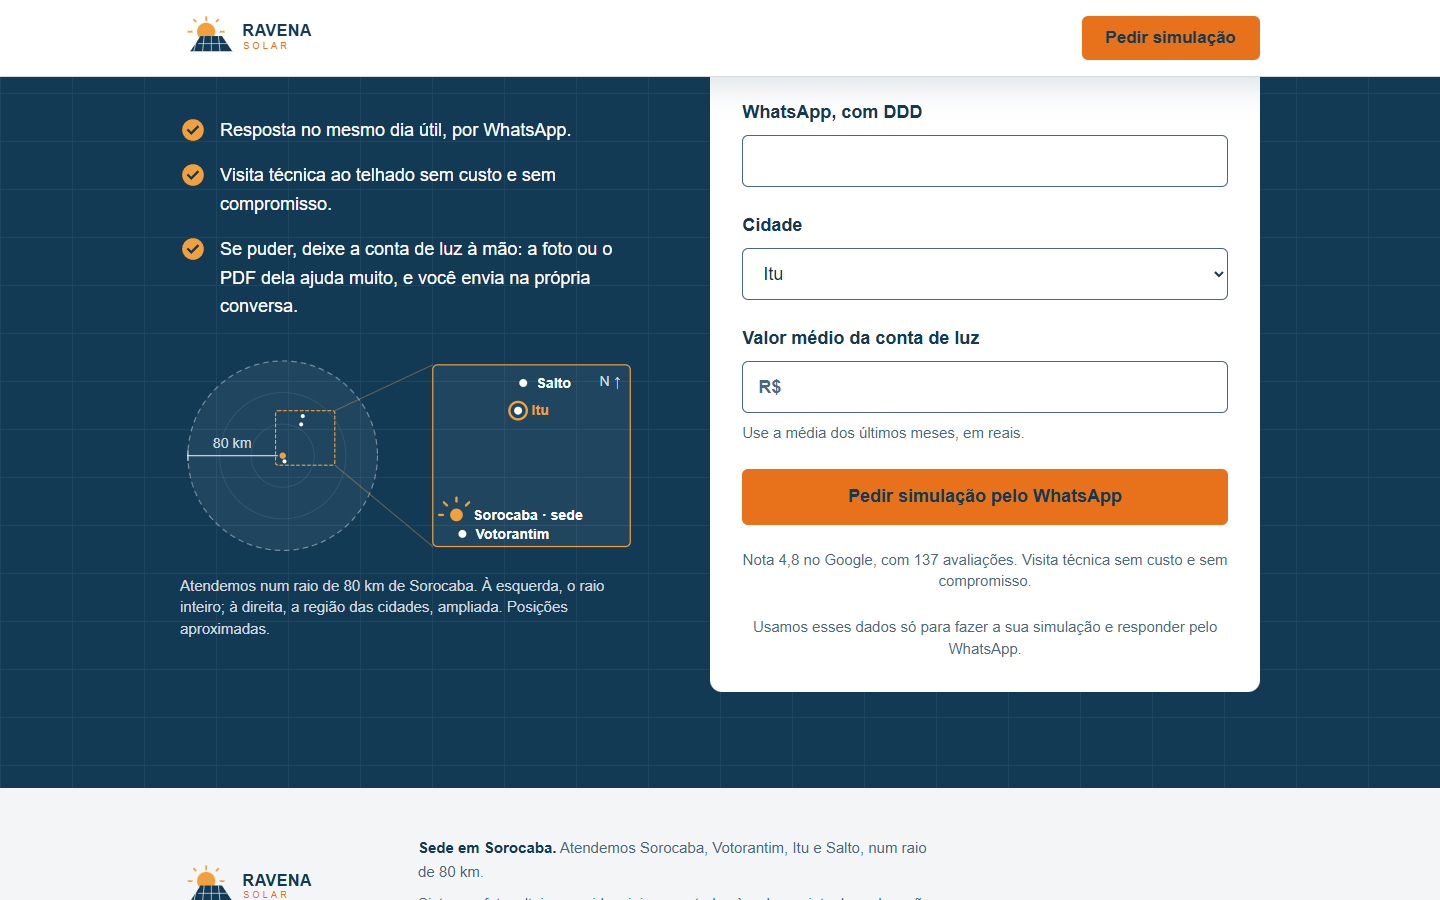
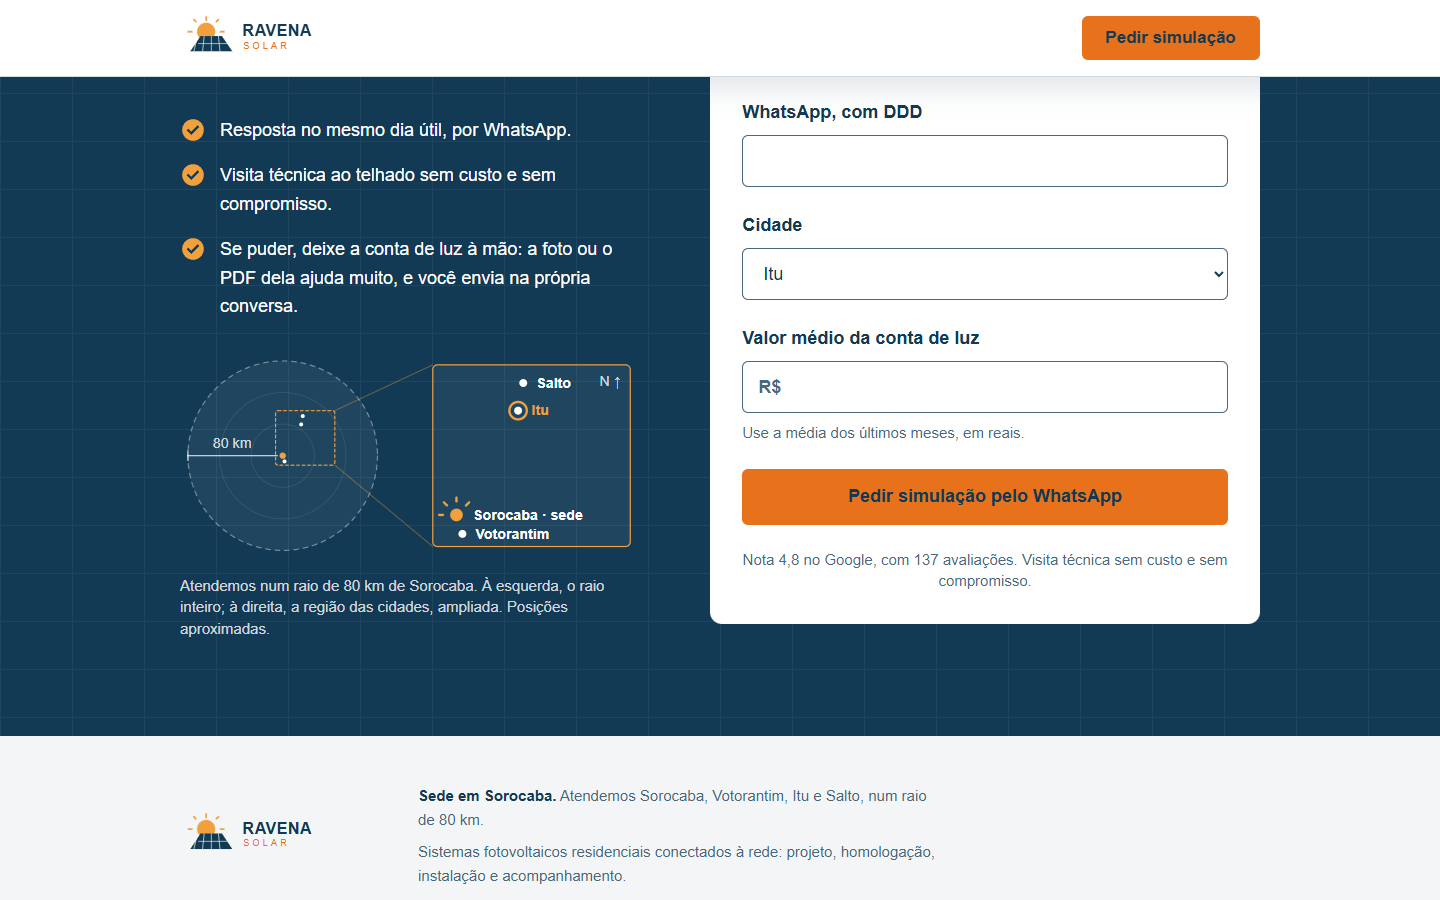
Mapa do celular depois do botão; frase sobre dados fica pendente
O mapa ocupava ~300px entre os campos Cidade e conta. A frase sobre o
uso dos dados é promessa que o cliente não fez no brief: sai até ele
confirmar e entra na lista de pendências.

Changed region(s): [[0.0, 0.8089, 1.0, 1.0], [0.4688, 0.6844, 0.875, 0.7778]]

diff --git a/index.html b/index.html
@@ -380,19 +380,6 @@
             <p class="erro" id="erro-cidade" hidden></p>
           </div>
 
-          <!-- No celular, o quadro ampliado fica junto do campo, para o destaque da cidade aparecer onde a pessoa escolhe. -->
-          <figure class="diagrama mapa-compacto so-celular">
-            <svg class="mapa" viewBox="330 25 270 250" role="img" aria-labelledby="mapa-compacto-legenda" xmlns="http://www.w3.org/2000/svg">
-              <rect class="m-moldura" x="340" y="35" width="250" height="230" rx="6"/>
-              <text class="m-norte" x="578" y="62" text-anchor="end">N ↑</text>
-              <g class="m-local" data-cidade="Salto"><circle class="m-anel" cx="454.5" cy="58" r="11"/><circle class="m-ponto" cx="454.5" cy="58" r="5"/><text x="471" y="64">Salto</text></g>
-              <g class="m-local" data-cidade="Itu"><circle class="m-anel" cx="448" cy="93" r="11"/><circle class="m-ponto" cx="448" cy="93" r="5"/><text x="465" y="99">Itu</text></g>
-              <g class="m-local" data-cidade="Votorantim"><circle class="m-anel" cx="377.5" cy="249" r="11"/><circle class="m-ponto" cx="377.5" cy="249" r="5"/><text x="394" y="255">Votorantim</text></g>
-              <g class="m-local m-sede" data-cidade="Sorocaba"><circle class="m-anel" cx="370" cy="225" r="15"/><path class="m-raios" d="M370 208 V203 M358 213 L354 209 M382 213 L386 209 M353 225 H348"/><circle class="m-sol" cx="370" cy="225" r="8"/><text x="391" y="231">Sorocaba · sede</text></g>
-            </svg>
-            <figcaption id="mapa-compacto-legenda">Atendemos num raio de 80 km de Sorocaba. Posições aproximadas.</figcaption>
-          </figure>
-
           <div class="campo" id="campo-outra-cidade" hidden>
             <label for="outra-cidade">Qual cidade?</label>
             <input id="outra-cidade" name="outra-cidade" type="text" aria-describedby="erro-outra-cidade">
@@ -425,7 +412,19 @@
           <noscript><p class="ajuda">Para pedir a simulação, ative o JavaScript do navegador.</p></noscript>
 
           <p class="garantia-envio">Nota 4,8 no Google, com 137 avaliações. Visita técnica sem custo e sem compromisso.</p>
-          <p class="garantia-envio">Usamos esses dados só para fazer a sua simulação e responder pelo WhatsApp.</p>
+
+          <!-- No celular, o quadro ampliado fica depois do botão: não alonga o formulário entre os campos. -->
+          <figure class="diagrama mapa-compacto so-celular">
+            <svg class="mapa" viewBox="330 25 270 250" role="img" aria-labelledby="mapa-compacto-legenda" xmlns="http://www.w3.org/2000/svg">
+              <rect class="m-moldura" x="340" y="35" width="250" height="230" rx="6"/>
+              <text class="m-norte" x="578" y="62" text-anchor="end">N ↑</text>
+              <g class="m-local" data-cidade="Salto"><circle class="m-anel" cx="454.5" cy="58" r="11"/><circle class="m-ponto" cx="454.5" cy="58" r="5"/><text x="471" y="64">Salto</text></g>
+              <g class="m-local" data-cidade="Itu"><circle class="m-anel" cx="448" cy="93" r="11"/><circle class="m-ponto" cx="448" cy="93" r="5"/><text x="465" y="99">Itu</text></g>
+              <g class="m-local" data-cidade="Votorantim"><circle class="m-anel" cx="377.5" cy="249" r="11"/><circle class="m-ponto" cx="377.5" cy="249" r="5"/><text x="394" y="255">Votorantim</text></g>
+              <g class="m-local m-sede" data-cidade="Sorocaba"><circle class="m-anel" cx="370" cy="225" r="15"/><path class="m-raios" d="M370 208 V203 M358 213 L354 209 M382 213 L386 209 M353 225 H348"/><circle class="m-sol" cx="370" cy="225" r="8"/><text x="391" y="231">Sorocaba · sede</text></g>
+            </svg>
+            <figcaption id="mapa-compacto-legenda">Atendemos num raio de 80 km de Sorocaba. Posições aproximadas.</figcaption>
+          </figure>
         </form>
       </div>
     </section>

diff --git a/SPEC.md b/SPEC.md
@@ -70,11 +70,11 @@
    - **Raio de 80 km desenhado no formulário**, com Sorocaba no centro e as outras três cidades em posição aproximada. *Por quê:* responde "vocês atendem aqui?" no momento de escolher a cidade.
      Na primeira versão o mapa ficou cru: na escala real as quatro cidades cabem em uns 35 km de um raio de 80, então o círculo ficava vazio e Votorantim encostava em Sorocaba. Agora ele tem duas escalas. A visão geral mostra o raio com a área preenchida e a linha "80 km" como escala, e a região das cidades fica marcada. Ao lado, um quadro ampliado mostra as quatro cidades nas mesmas posições relativas. A sede é o sol da logo. *Por quê:* é o recurso clássico de mapa com quadro de detalhe; resolve a leitura sem distorcer distância nenhuma.
      **O mapa responde ao campo "Cidade":** a cidade escolhida ganha um anel âmbar e o nome em âmbar; "Outra cidade a até 80 km" acende o raio inteiro. *Por quê:* o mapa deixa de ser enfeite e confirma, na hora, que a pessoa está dentro da área atendida.
-     **No celular, o mapa vai para dentro do formulário,** logo abaixo do campo "Cidade", só com o quadro ampliado, sobre fundo azul. *Por quê:* no celular o mapa ficava acima do formulário, e quem escolhia a cidade não via o destaque. No computador ele continua na coluna da esquerda, ao lado do campo.
-     Sem JavaScript o mapa aparece inteiro, só sem o destaque. Ficam de fora: rodovias com número, cidades fora da lista do brief, distância escrita por cidade e animação.
+     **No celular, o mapa fica no fim do formulário,** depois do botão, só com o quadro ampliado, sobre fundo azul. No computador ele continua na coluna da esquerda, ao lado do campo. *Por quê:* a primeira tentativa pôs o mapa logo abaixo do campo "Cidade", para o destaque aparecer onde a pessoa escolhe. Mas eram cerca de 300px no meio de um formulário de quatro campos, justamente onde a pessoa está preenchendo, e rolagem a mais ali faz gente desistir. Depois do botão, o mapa continua respondendo à escolha sem atrapalhar o preenchimento.
+     Sem JavaScript o mapa aparece inteiro, só sem o destaque. As posições das cidades não vêm do brief: são geografia pública, desenhadas na proporção real e marcadas como "posições aproximadas". O único número escrito no mapa é o raio de 80 km, que é do brief. Ficam de fora: rodovias com número, cidades fora da lista do brief, distância escrita por cidade e animação.
    - **Jargão explicado em linha:** kWp, inversor, homologação e custo do fio. *Por quê:* quem compra tem de 35 a 60 anos e não é técnico. A página usa as palavras do setor, então precisa dizer o que elas querem dizer.
    - **"11 pessoas" é o número de destaque da objeção 1.** *Por quê:* "equipe própria, com carteira assinada" é a prova mais direta contra "vão sumir", e as outras duas objeções já tinham número de destaque.
-   - **Uma linha sobre os dados no formulário:** para que eles servem. *Por quê:* a pessoa hesita ao entregar o telefone, e a resposta cabe numa linha.
+   - **Uma linha sobre o uso dos dados no formulário ficou pendente.** A frase "Usamos esses dados só para fazer a sua simulação e responder pelo WhatsApp" chegou a entrar, mas é uma promessa que o cliente não fez no brief. Volta quando ele confirmar o texto.
    - **Os diagramas também preenchem a coluna vazia.** No computador, as seções do telhado e da Lei 14.300 tinham uma coluna quase vazia. O corte do telhado fica sob a pergunta, e o diagrama do crédito fica sob a resposta.
 
    Os diagramas são desenhos técnicos nas cores da logo, sem gente, sem foto e sem efeito. Ficam visíveis sem JavaScript e sem animação.
@@ -106,4 +106,4 @@
 | Cortes diagonais entre as seções | A única inclinação da logo é a lateral do painel, com cerca de 56°, íngreme demais para cortar uma seção. Um ângulo mais suave seria forma inventada, não da marca. |
 | Fonte Poppins, gradientes e cards com ícone do site de 2021 | O visual antigo é o da página que "quase não traz cliente". A fonte passa a ser a da própria logo. |
 
-**Pendente com o cliente:** WhatsApp real, fotos e vídeos, link do Google, endereço e CNPJ.
+**Pendente com o cliente:** WhatsApp real, fotos e vídeos, link do Google, endereço e CNPJ, e o texto sobre o uso dos dados no formulário.

diff --git a/verificacao/README.md b/verificacao/README.md
@@ -28,7 +28,7 @@ node verificar.mjs <URL no ar>     # confere a página publicada (arquivos com s
 | `computador-1440-caso-acao.png` | Computador: caso de Sorocaba terminando com o botão |
 | `computador-1440-retorno.png` | Computador: os 25 blocos de anos, do retorno à vida útil |
 | `computador-1440-mapa-cidade-itu.png` | Computador: mapa do raio em duas escalas, com Itu escolhida no formulário |
-| `celular-390-mapa-cidade-itu.png` | Celular: quadro ampliado dentro do formulário, logo abaixo do campo "Cidade", com Itu marcada |
+| `celular-390-mapa-cidade-itu.png` | Celular: quadro ampliado no fim do formulário, depois do botão, com Itu marcada |
 
 Os arquivos com `-no-ar` no nome são as mesmas capturas, tiradas da página publicada.
 
@@ -44,7 +44,7 @@ Os arquivos com `-no-ar` no nome são as mesmas capturas, tiradas da página pub
 7. **Primeira tela (quarta versão):** contas de 200 e 449,99 digitadas ali mostram o aviso, não descem ao formulário e não abrem link; 450 e 780 descem ao formulário com a conta preenchida e o cursor no nome, também sem abrir link; em branco, o botão só leva ao formulário; sem JavaScript, o campo é um formulário com `action="#simulacao"`. O valor trazido ainda passa pelo filtro: trocado para 300 bloqueia, e 780 chega à mensagem do WhatsApp.
 8. **Diagramas e blocos (quarta versão):** 25 blocos de anos nas cores certas; botão no fim do caso; "11 pessoas" na objeção 1; os quatro diagramas aparecem com legenda e nome acessível, inclusive sem JavaScript, e só usam cores da logo, sem laranja.
 
-9. **Mapa do raio:** o quadro ampliado mantém as posições da visão geral (escala 5 para 1,5); celular e computador têm as mesmas posições; no celular o mapa fica logo abaixo do campo "Cidade" e, no computador, na coluna da esquerda; escolher cada uma das quatro cidades marca só ela, "Outra cidade" acende o raio, e sem escolha não há destaque.
+9. **Mapa do raio:** o quadro ampliado mantém as posições da visão geral (escala 5 para 1,5); celular e computador têm as mesmas posições; no celular o mapa fica depois do botão, sem nada grande entre o campo "Cidade" e o da conta, e, no computador, na coluna da esquerda; escolher cada uma das quatro cidades marca só ela, "Outra cidade" acende o raio, e sem escolha não há destaque.
 
 As capturas são tiradas com "menos movimento" ligado, para registrar a página já assentada.
 

diff --git a/DESIGN.md b/DESIGN.md
@@ -89,7 +89,7 @@ Hierarquia: o maior texto da tela é sempre o número ou a promessa. Título de 
     - *Quadro ampliado* (5px por km): moldura em `--ambar`, as cidades na mesma posição relativa, nomes à direita do ponto e "N ↑" no canto. A sede é o sol da logo (círculo e raios em `--ambar`); as outras cidades são pontos `--branco` de 5px.
     - *Cidade escolhida:* anel de 3px em `--ambar` em volta do ponto e nome em `--ambar` (texto âmbar só sobre azul). "Outra cidade" acende a borda do raio em `--ambar`.
     - Texto do mapa em 18 unidades do desenho no computador (o mapa é reduzido para caber na coluna) e `--t-pequeno` no celular.
-    - *No celular:* só o quadro ampliado, dentro do formulário, logo abaixo do campo "Cidade", num bloco `--azul` com `--raio-cartao`. A visão geral aparece só a partir de 760px.
+    - *No celular:* só o quadro ampliado, no fim do formulário, depois do botão e da nota do Google, num bloco `--azul` com `--raio-cartao`. A visão geral aparece só a partir de 760px.
 
 ## Movimento
 
